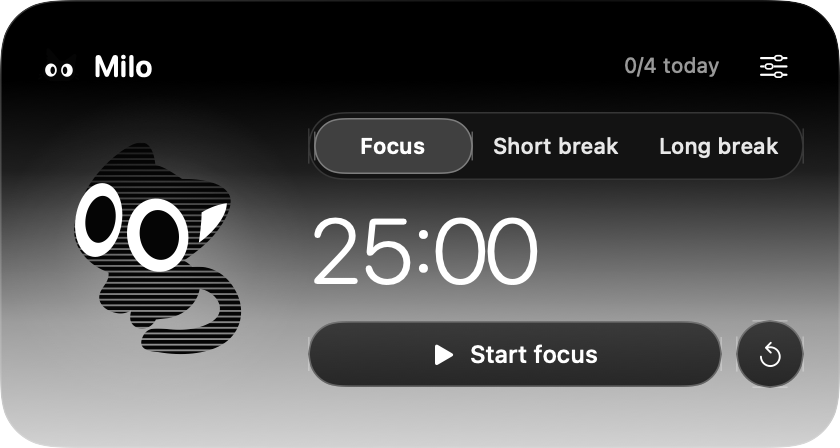
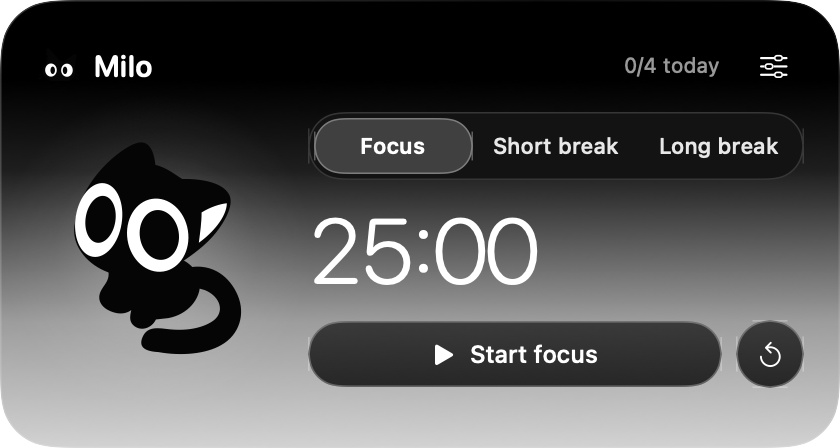
Remove cat scanlines and restore solid silhouette

Changed region(s): [[0.0929, 0.3438, 0.3095, 0.8125]]

diff --git a/Milo/Sources/Milo/CatView.swift b/Milo/Sources/Milo/CatView.swift
@@ -4,7 +4,6 @@ struct CatDrawing: View {
     let pose: CatPose
     var time: TimeInterval = 0
     var moving = false
-    var scanlines = false
 
     var body: some View {
         Canvas { context, size in
@@ -21,8 +20,8 @@ struct CatDrawing: View {
             let blinkPhase = time.truncatingRemainder(dividingBy: 6.7)
             let blink = moving && pose != .focus && blinkPhase > 4.6 && blinkPhase < 4.76
                 ? max(0.07, abs(blinkPhase - 4.68) / 0.08) : 1.0
-            func draw(_ part: VectorPart, in source: GraphicsContext) {
-                var layer = source
+            for part in pose.parts {
+                var layer = context
                 if moving, part.role == .tail {
                     let anchor = pose.tailAnchor
                     layer.translateBy(x: anchor.x, y: anchor.y)
@@ -42,28 +41,6 @@ struct CatDrawing: View {
                     layer.fill(part.path, with: ink)
                 }
             }
-            if scanlines {
-                // Cut only the silhouette in an isolated layer. Destination-out
-                // reveals the soft glow without erasing the panel behind it.
-                context.drawLayer { silhouette in
-                    for part in pose.parts where !part.white && part.role != .eyes {
-                        draw(part, in: silhouette)
-                    }
-                    let spacing = 12.0
-                    let offset = moving ? time.truncatingRemainder(dividingBy: 3.6) / 3.6 * spacing : 0
-                    silhouette.blendMode = .destinationOut
-                    for y in stride(from: -spacing, through: 512 + spacing, by: spacing) {
-                        let band = Path(CGRect(x: -16, y: y + offset, width: 544, height: 4))
-                        silhouette.fill(band, with: .color(.white.opacity(0.82)))
-                    }
-                }
-                // Keep the eyes, pupils and ear details crisp at menu-panel size.
-                for part in pose.parts where part.white || part.role == .eyes {
-                    draw(part, in: context)
-                }
-            } else {
-                for part in pose.parts { draw(part, in: context) }
-            }
         }
         .accessibilityHidden(true)
     }
@@ -78,8 +55,7 @@ struct MiloCatView: View {
     var body: some View {
         Button(action: react) {
             TimelineView(.animation(minimumInterval: 1.0 / 30, paused: !animating)) { context in
-                CatDrawing(pose: store.pose, time: context.date.timeIntervalSinceReferenceDate,
-                           moving: animating, scanlines: store.scanlineCatEnabled)
+                CatDrawing(pose: store.pose, time: context.date.timeIntervalSinceReferenceDate, moving: animating)
                     .id(store.pose)
                     .transition(.opacity)
                     .animation(.easeInOut(duration: reduceMotion ? 0.1 : 0.25), value: store.pose)

diff --git a/Milo/Tests/MiloCoreTests/GenieGeometryTests.swift b/Milo/Tests/MiloCoreTests/GenieGeometryTests.swift
@@ -16,9 +16,9 @@ final class GenieGeometryTests: XCTestCase {
     }
 
     func testEveryRowConvergesOnAnOffCenterMenuIcon() {
-        let body = CGRect(x: 8, y: 0, width: 352, height: 544)
+        let body = CGRect(x: 8, y: 0, width: 352, height: 520)
         for anchorX: CGFloat in [30, 180, 340] {
-            let anchor = CGPoint(x: anchorX, y: 566)
+            let anchor = CGPoint(x: anchorX, y: 542)
             for row in 0...100 {
                 let section = GenieGeometry.section(at: CGFloat(row) / 100, progress: 1, body: body, anchor: anchor)
                 XCTAssertEqual(section.left, anchor.x, accuracy: 0.0001)
@@ -29,7 +29,7 @@ final class GenieGeometryTests: XCTestCase {
     }
 
     func testSheetNeverFoldsOrEscapesTheWindowDuringEitherPanelSize() {
-        for size in [CGSize(width: 420, height: 224), CGSize(width: 352, height: 594)] {
+        for size in [CGSize(width: 420, height: 224), CGSize(width: 352, height: 570)] {
             let body = CGRect(origin: CGPoint(x: 8, y: 0), size: size)
             let anchor = CGPoint(x: size.width - 18, y: size.height + 22)
             for frame in 0...100 {

diff --git a/Milo/Sources/Milo/App.swift b/Milo/Sources/Milo/App.swift
@@ -79,7 +79,6 @@ final class AppDelegate: NSObject, NSApplicationDelegate {
             if args.contains("--solid") { store.liquidGlassEnabled = false }
             if args.contains("--dark-glass") { store.glassDarkness = 1 }
             if args.contains("--clear-glass") { store.glassDarkness = 0 }
-            if args.contains("--plain-cat") { store.scanlineCatEnabled = false }
         }
     }
 
@@ -233,7 +232,7 @@ final class AppDelegate: NSObject, NSApplicationDelegate {
     private var panelSize: NSSize {
         if store.showSettings {
             let accessibilitySpace: CGFloat = NSWorkspace.shared.accessibilityDisplayShouldReduceTransparency ? 18 : 0
-            return .init(width: 352, height: (notifications.message == nil ? 544 : 576) + accessibilitySpace)
+            return .init(width: 352, height: (notifications.message == nil ? 520 : 552) + accessibilitySpace)
         }
         // A single compact landscape layout replaces the old portrait preference.
         return .init(width: 420, height: store.storageMessage == nil ? 224 : 246)

diff --git a/Milo/Sources/Milo/MiloStore.swift b/Milo/Sources/Milo/MiloStore.swift
@@ -23,9 +23,6 @@ final class MiloStore: ObservableObject {
             onResize?()
         }
     }
-    @Published var scanlineCatEnabled: Bool {
-        didSet { defaults.set(scanlineCatEnabled, forKey: "milo.appearance.scanlineCat") }
-    }
     @Published var storageMessage: String?
     let notifications: NotificationService
     var onResize: (() -> Void)?
@@ -40,7 +37,6 @@ final class MiloStore: ObservableObject {
         liquidGlassEnabled = defaults.object(forKey: "milo.appearance.liquidGlass") as? Bool ?? true
         let darkness = defaults.object(forKey: "milo.appearance.glassDarkness") as? Double ?? 0.18
         glassDarkness = darkness.isFinite ? min(1, max(0, darkness)) : 0.18
-        scanlineCatEnabled = defaults.object(forKey: "milo.appearance.scanlineCat") as? Bool ?? true
         if let data = defaults.data(forKey: storageKey),
            let saved = try? JSONDecoder().decode(SessionEngine.self, from: data) {
             engine = saved

diff --git a/Milo/Sources/Milo/MiloPanelView.swift b/Milo/Sources/Milo/MiloPanelView.swift
@@ -193,7 +193,6 @@ struct MiloPanelView: View {
                     get: { store.engine.settings.notificationsEnabled }, set: store.enableNotifications))
                 Toggle("Completion sound", isOn: setting(\.soundEnabled))
                 Toggle("Animate Milo", isOn: setting(\.animationEnabled))
-                Toggle("Scanline cat", isOn: $store.scanlineCatEnabled)
             }
             .toggleStyle(MiloToggleStyle())
             .font(.system(size: 12))

diff --git a/README.md b/README.md
@@ -2,7 +2,7 @@
 
 A small native macOS Pomodoro companion. The app is called **Milo** and lives in your menu bar with a monochrome cat, a compact landscape timer, and Liquid Glass.
 
-![Milo timer with the scanline cat](docs/milo-preview.png)
+![Milo Pomodoro timer](docs/milo-preview.png)
 
 ## Features
 
@@ -10,7 +10,7 @@ A small native macOS Pomodoro companion. The app is called **Milo** and lives in
 - Local session history, pause/resume, and deadline recovery after sleep or reopening.
 - Local completion notifications and optional sound.
 - Native glass with adjustable darkness, opaque readable controls, and solid settings.
-- A vector cat with breathing, blinking, tail movement, and an optional moving scanline effect.
+- A vector cat with breathing, blinking, and tail movement.
 - A Genie animation that opens from and closes into the menu icon. Click the icon again to dismiss.
 - Reduced Motion and Reduced Transparency support. Continuous cat animation pauses while the panel is hidden.
 
@@ -31,7 +31,7 @@ The script generates vector paths and icons, builds the executable, and creates 
 
 Click the cat in the menu bar to open or close Milo. Right-click for the menu and Quit. While the panel is active, Space starts or pauses the timer, Escape closes the panel, and Command-Q quits.
 
-In Settings, turn **Scanline cat** off to compare the original silhouette. **Animate Milo** controls continuous motion; Reduce Motion also stops it. The small menu icon and notification icon keep their clean silhouette.
+In Settings, **Animate Milo** controls continuous motion; Reduce Motion also stops it.
 
 Allow notifications when macOS asks. After permission is granted, use **Send test** in Settings to check delivery. macOS controls the notification banner; Milo's icon has a transparent background.
 
@@ -55,4 +55,4 @@ See [native preview commands](Milo/README.md) for isolated UI snapshots and diag
 
 ## Artwork
 
-The cat vectors were redrawn from supplied character references. The moving horizontal scanlines are rendered with SwiftUI Canvas over the existing vector silhouette, with crisp eyes and a soft radial glow. No MotionSites code or cat assets are included. This is a vector treatment rather than a 3D render.
+The cat vectors were redrawn from supplied character references. The cat is rendered with SwiftUI Canvas, with crisp eyes and a soft radial glow. No MotionSites code or cat assets are included. This is a vector treatment rather than a 3D render.

diff --git a/Milo/README.md b/Milo/README.md
@@ -11,11 +11,10 @@ Milo.app/Contents/MacOS/Milo --render-preview /tmp/milo.png
 Milo.app/Contents/MacOS/Milo --render-preview /tmp/milo-focus.png --focus
 Milo.app/Contents/MacOS/Milo --render-preview /tmp/milo-rest.png --rest
 Milo.app/Contents/MacOS/Milo --render-preview /tmp/milo-settings.png --settings
-Milo.app/Contents/MacOS/Milo --render-preview /tmp/milo-plain.png --plain-cat
 Milo.app/Contents/MacOS/Milo --render-preview /tmp/milo-motion.png --animated --motion-frames
 ```
 
-The scanline style is on by default. `--plain-cat` renders the original silhouette. `--animated --motion-frames` exports a second frame 0.9 seconds later with the suffix `.motion.png`. Without `--animated`, the cat remains still, including the scanlines.
+`--animated --motion-frames` exports a second frame 0.9 seconds later with the suffix `.motion.png`. Without `--animated`, the cat remains still.
 
 Snapshots contain only the app's hosted view flattened over charcoal. They cannot capture desktop-sampled glass refraction; assess that in the live app.
 
@@ -41,9 +40,9 @@ This does not request permission or send an alert. When permission is already al
 
 ## Rendering and persistence
 
-The cat is drawn from native vector paths. An isolated Canvas layer removes horizontal bands from the dark silhouette; eyes and pupils are drawn afterward to stay crisp. The same 30 fps timeline drives breathing, tail sway, and scanline movement. It pauses when the panel is hidden, animation is disabled, or Reduce Motion is enabled. The scanline appearance preference is stored separately so changing it does not reset the timer or reschedule notifications.
+The cat is drawn from native vector paths. A 30 fps timeline drives breathing, blinking, and tail sway. It pauses when the panel is hidden, animation is disabled, or Reduce Motion is enabled.
 
-The menu and notification icons are not striped. A white radial glow fades to transparent behind the main cat, with no rectangular tile.
+A white radial glow fades to transparent behind the main cat, with no rectangular tile.
 
 The glass surface uses the public `NSGlassEffectView` API. Settings and Reduced Transparency use solid surfaces. The compact timer is 420 × 224 points; settings expand only when needed.
 
